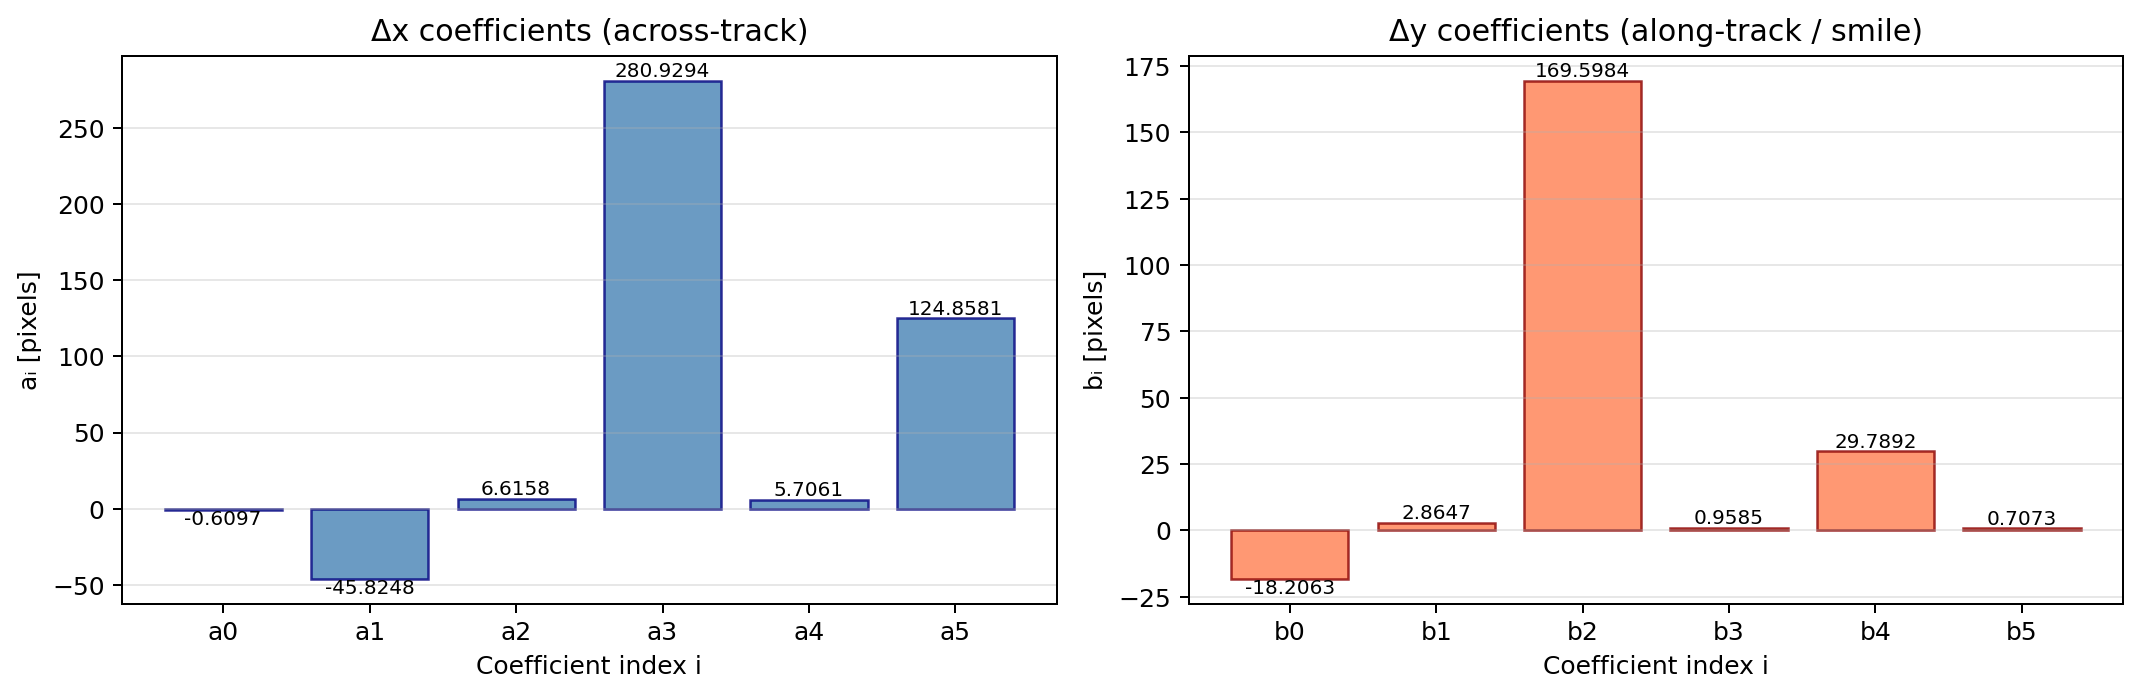
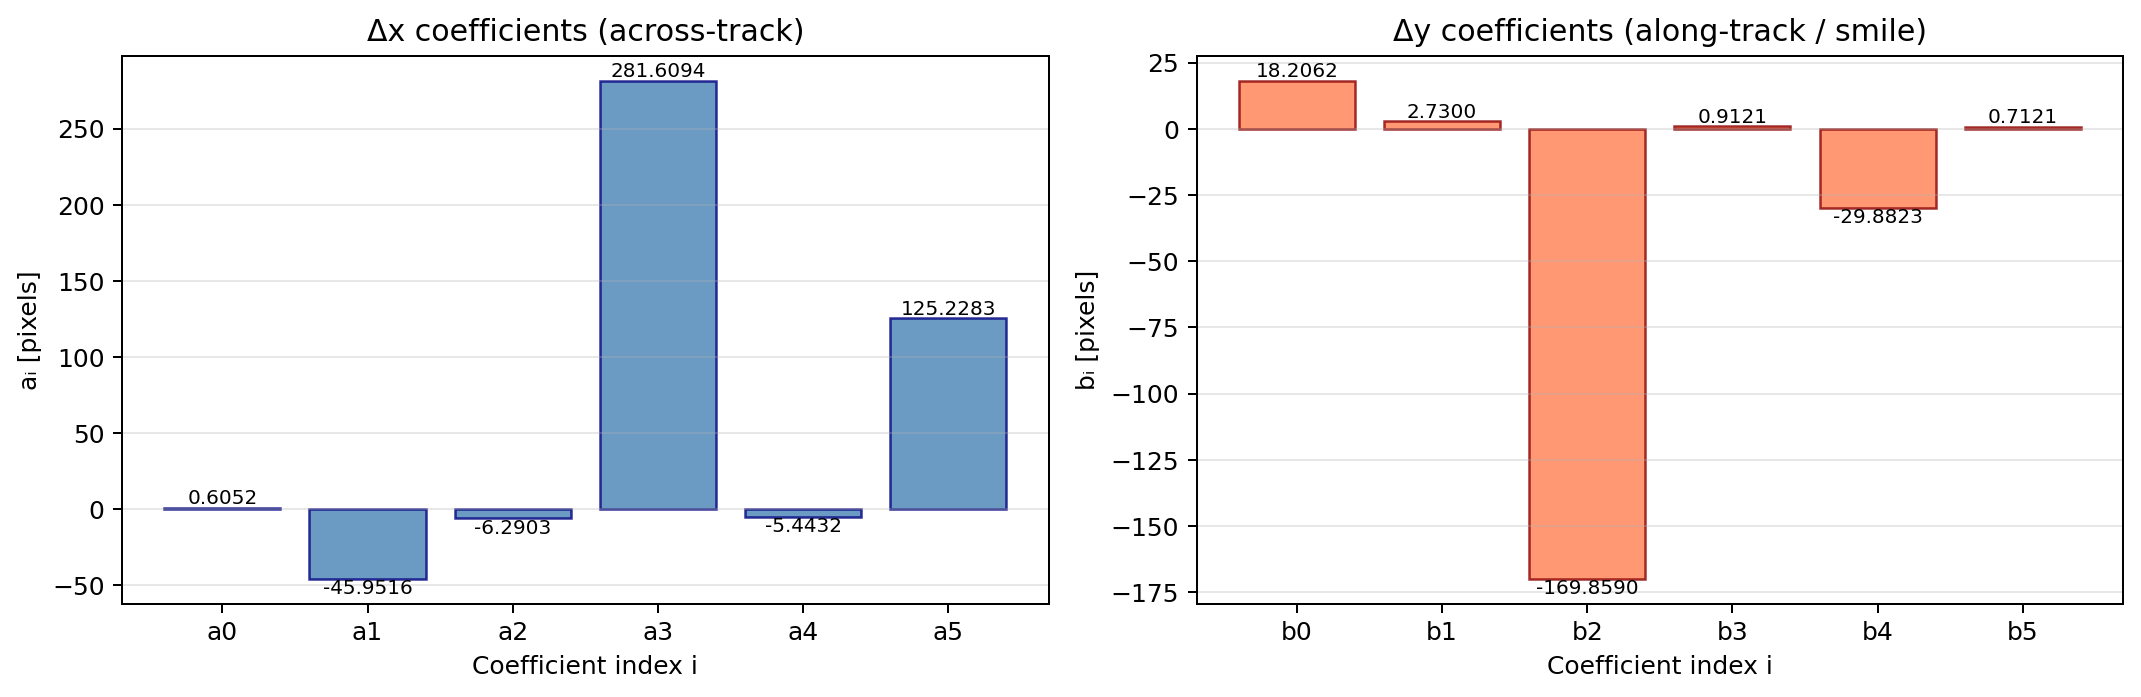
upate ortho-code

diff --git a/Orthorectify/pushbroom_ortho_stevi_model/pipeline/lut_to_steviapp.py b/Orthorectify/pushbroom_ortho_stevi_model/pipeline/lut_to_steviapp.py
@@ -36,7 +36,7 @@ from  camera_models.load_PSF import compute_focal_length
 # Configuration — edit these to match your setup
 # =========================================================================
 
-ANGLE_LUT_PATH = 'Orthorectify/pushbroom_ortho_configs/AV4_acrosstrack_PSF_2024_valid_angles.csv'
+ANGLE_LUT_PATH = '/media/addLidar/AVIRIS_4_Mission_Processing/AV4_Camera_Model_Data/AV4_acrosstrack_PSF_2024_valid_angles.csv'
 
 # Smile polynomial: θ_at = a·θ_ac² + b·θ_ac + c  (all in degrees)
 SMILE_A = -0.0036022
@@ -342,7 +342,7 @@ def main():
     # ---- Step 1: Load LUT ----
     angles_deg = load_lut(ANGLE_LUT_PATH)
     # change order of angles_deg
-    angles_deg = angles_deg[::-1]
+    #angles_deg = angles_deg[::-1]
     fov = angles_deg[-1] - angles_deg[0]
     w = len(angles_deg)
     u = np.arange(w, dtype=np.float64)

diff --git a/camera_models/estimate_brown_model.py b/camera_models/estimate_brown_model.py
@@ -211,7 +211,7 @@ if __name__ == "__main__":
 
     # select pixels with FWHM > 0
     #num_pixels = len(px)
-    valid_indices = np.where(fwhms > 0.022)[0]#[2:-2]
+    valid_indices = np.where(fwhms > 0.028)[0][1:-1]
     
     # plot fwhm filtered
      
@@ -231,7 +231,7 @@ if __name__ == "__main__":
     pixels_measured = px[valid_indices]
     xt_obs = angles[valid_indices]
     # save xt_obs to csv
-    #np.savetxt('/media/addLidar/AVIRIS_4_Mission_Processing/AV4_Camera_Model_Data/AV4_acrosstrack_PSF_2024_valid_angles.csv', xt_obs, delimiter=',')
+    np.savetxt('/media/addLidar/AVIRIS_4_Mission_Processing/AV4_Camera_Model_Data/AV4_acrosstrack_PSF_2024_valid_angles.csv', xt_obs, delimiter=',')
 
     FOV_measured = np.round(xt_obs[-1] - xt_obs[0], 2)
     num_pixels = len(valid_indices)
